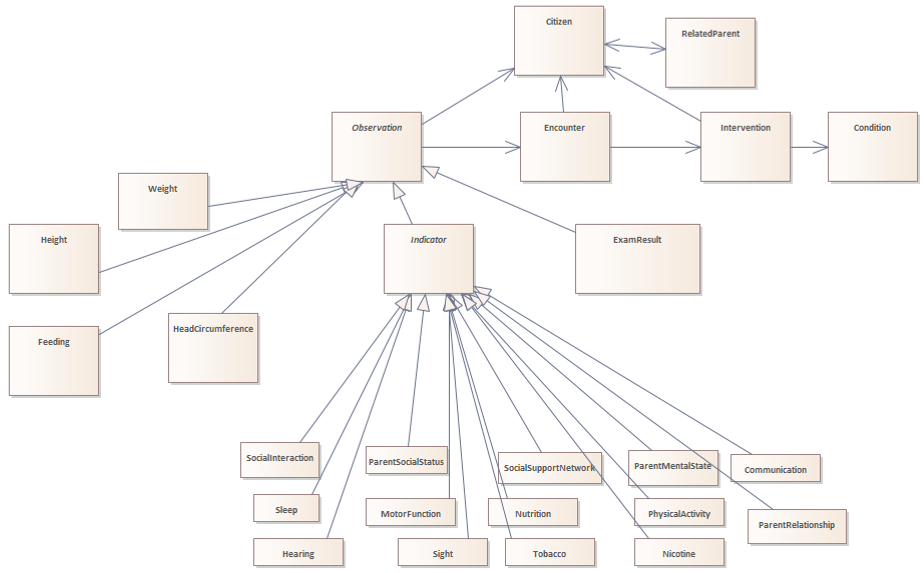
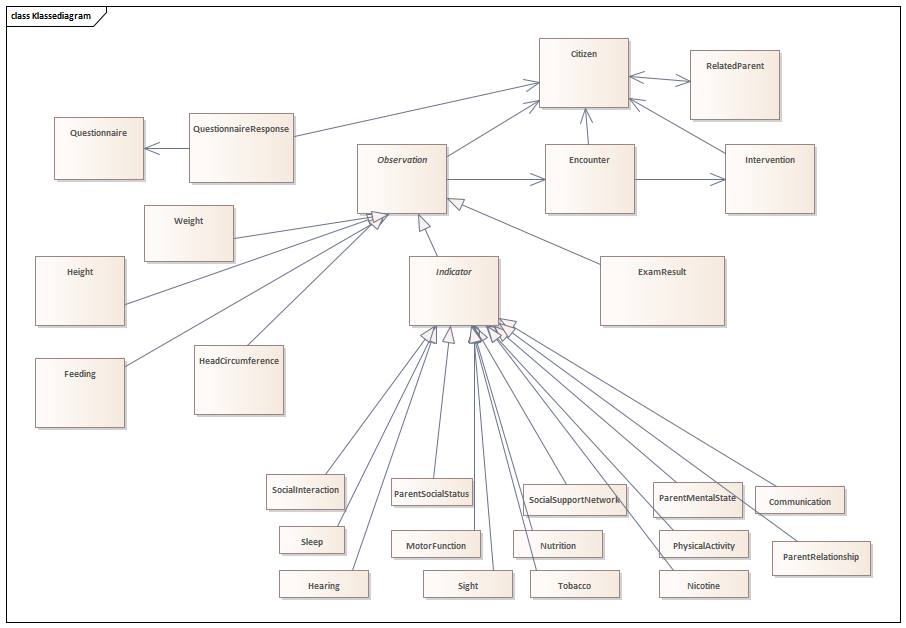
error correction

diff --git a/input/pagecontent/index.md b/input/pagecontent/index.md
@@ -10,31 +10,30 @@ The data is reported as a collection of instances. A report may contain instance
 
 <img alt="OverviewModel" src="./ReportStructure.png" style="float:none; display:block; margin-left:auto; margin-right:auto;" />
 
-In addition to being structured as a report, relationships exist between the models. These are illustrated in the figure below. Note that the ressource Indicator is abstract. Relevant models inherit from dk-core i.e. Citizen, Observation, BasicObservation and Condition.
+In addition to being structured as a report, relationships exist between the models. These are illustrated in the figure below. Note that the ressource Indicator is abstract. Relevant models inherit from dk-core i.e. Citizen, Observation, BasicObservation and Condition. QuestionnaireResponses are repported, not Questionnaires. The latter represents shared knowledge between sender and reciever.
 
 <img alt="ClassDiagram" src="./ClassDiagram.png" style="float:none; display:block; margin-left:auto; margin-right:auto;" />
 
 ## Special constraints, and resulting reporting practises
-Whereas the report may seem unconstrained, each profile define constraints on attributes, datatypes and cardinalities. In addition, extra constraints are implemented to accomodate the rules of reporting data to The National Child Health Register, see [guidance](https://sundhedsdatastyrelsen.dk/da/rammer-og-retningslinjer/indberetning_sei/vejledninger_indberetning/bornedatabasen) and Fælleskommunal standard for forebyggende sundhedsydelser til børn og unge (FBU). The extra constraints is defines to ensure that the relevant mandatory observations are reported as part of reporting on certain standard encounters. Note that the constraints only apply, when Enconter.Class is ambulatory "AMB" or Home visit "HH". A table is presented below (Danish names for standard-visits):
+Whereas the report may seem unconstrained, each profile define constraints on attributes, datatypes and cardinalities. In addition, extra constraints are implemented to accomodate the rules of reporting data to The National Child Health Register, see [guidance](https://sundhedsdatastyrelsen.dk/da/rammer-og-retningslinjer/indberetning_sei/vejledninger_indberetning/bornedatabasen) and Fælleskommunal standard for forebyggende sundhedsydelser til børn og unge (FBU). The extra constraints is defines to ensure that the relevant mandatory observations are reported as part of reporting on certain standard encounters. Note that the constraints only apply, when the appropriate encounter-type is applied, and when Enconter.Class is ambulatory "AMB" or Home visit "HH". A table is presented below (Danish names for standard-visits):
 
 {:class="grid"}
 |Standard visit| Mandatory Observations in Report|
 | ------------- |-------------|
 |Graviditetsbesøg |IndicatorParentMentalState, IndicatorSocialSupportNetwork, IndicatorParentSocialStatus|
-|Barselsbesøg |ParentRelationship, Weight, Feeding, |
-|Etableringsbesøg |IndicatorSocialSupportNetwork, IndicatorParentSocialStatus, ParentRelationship, Weight, Height, HeadCircumference, Tobacco, Feeding|
-|Andet besøg i barnets første levemåned|Tidspunkt for observationen.|
-|Besøg ved det ca. 2 måneder gamle barn |Klasse der udtrykker en overordnet katagori for hvad der observeres|
-|Besøg ved det 4-6 måneder gamle barn|Den borger, for hvem der er foretaget en observation.|
-|Besøg ved det 8-11 måneder gamle barn|Den kontakt, hvor observationen er foretaget.
-|Indskolingsundersøgelse |Klasse der udtrykker, hvor i sin proces, observationen er.
-|Undersøgelse i mellemtrin, med måling |Klasse, der udtrykker hvorfor data mangler|
-|Udskolingsundersøgelse Klasse, der udtrykker hvorfor data mangler|
+|Barselsbesøg |ParentRelationship, Weight, Feeding|
+|Etableringsbesøg |IndicatorSocialSupportNetwork, IndicatorParentSocialStatus, IndicatorParentRelationship, Weight, Height, HeadCircumference, IndicatorTobacco, Feeding|
+|Andet besøg i barnets første levemåned|IndicatorParentRelationship, Weight, Height, HeadCircumference, Feeding|
+|Besøg ved det ca. 2 måneder gamle barn |IndicatorParentMentalState, IndicatorSocialInteraction, IndicatorParentRelationship, Weight, Height, HeadCircumference, Feeding, IndicatorCommunication, IndicatorSleep, IndicatorMotorFunction|
+|Besøg ved det 4-6 måneder gamle barn|IndicatorSocialInteraction, IndicatorParentRelationship, Weight, Height, HeadCircumference, Feeding, IndicatorCommunication, IndicatorSleep, IndicatorMotorFunction|
+|Besøg ved det 8-11 måneder gamle barn|IndicatorSocialInteraction, IndicatorParentRelationship, Weight, Height, HeadCircumference, Feeding, IndicatorCommunication, IndicatorSleep, IndicatorMotorFunction|
+|Indskolingsundersøgelse |IndicatorSocialInteraction, Weight, Height, IndicatorNutrition, IndicatorCommunication, IndicatorSleep, IndicatorMotorFunction, IndicatorPhysicalActivity, IndicatorHearing, IndicatorSight|
+|Undersøgelse i mellemtrin, med måling |Weight, Height, IndicatorSight|
+|Udskolingsundersøgelse| IndicatorSocialInteraction, Weight, Height, IndicatorNutrition, IndicatorNicotine, IndicatorCommunication, IndicatorSleep, IndicatorPhysicalActivity, IndicatorHearing, IndicatorSight.|
 
+The applied rules mean that an observation without a value must be reported if one of the menitioned encounters are completed without the data being obtained, and an appropriate dataAbsentReason must be given. See more in the descriptions below and in the [Enconter-profile](StructureDefinition-klgateway-children-encounter.html)
 
-The applied rules mean that an observation without a value must be reported if one of the menitioned encounters are completed without the data being obtained, and an appropriate dataAbsentReason must be given. In addition, the correct encounter-type must be applied, for the rules to take effect correctly. See more in the descriptions below and in the [Enconter-profile](StructureDefinition-klgateway-children-encounter.html)
-
-Note that constraint also might pose a challenge for reporting, in case the documentation is finished in the days following a visit. For reports missing mandatory observations, it is recommended to try to send the record on the following two days (to see if documentation is finished). If the data is not documented by the secon day, send the observations imdiately without a value and add a dataAbsentReason. 
+Note that constraint might also pose a challenge for reporting, in case the documentation is finished in the days following a visit. For reports missing mandatory observations, it is recommended to try to send the record on the following two days (to see if documentation is finished). If the data is not documented by the second day, send the observations immediately without a value and add a dataAbsentReason.
 
 ## Citizen
 Information about the citizens that are the subjects of the report. This resource is used to get a reference to the child. However, sometimes a report holds data about the child's parents. To ensure that this data goes into the parent's record, the data should be related to the parent represented as a citizen. Citizen and relatedPerson resources for the parents should only be included when and if, they are relevant for the child's report.
@@ -43,29 +42,33 @@ Information about the citizens that are the subjects of the report. This resourc
 * civil registration number (CPR-nr)
 * identification of the municipality holding and reporting the data
 * a reference to ParentRelation that holds additional information about the citizen's children.
+* a FHIR status attribute used to report errors.
 
 ##### Validation
 * One and only one civil registration number exists, and is a syntactically valid CPR-nr
 * One and only one managing organization exitis, and is a syntactically valid SOR code (only code length is currently validated in the profile, but the authorization validates the actual SOR code)
 * One reference to ParentRelation may exist
+* One FHIR status may exist, and should be drawn form the standard ValueSet.
 
 ## ParentRelation
-Information about the relationship between a child and its parents. Citizen and relatedPerson resources for the parents should only be included when and if, they are relevant for the child's report.
+Information about the relationship between a child and its parents. Citizen and RelatedPerson resources for the parents should only be included when and if, they are relevant for the child's report.
 
 ##### Attributes
 * a reference to the Citizen instance that holds the child's information
 * a relationship type that states that this is a 'parent'-relationship.
+* a FHIR status attribute used to report errors.
+* One FHIR status may exist, and should be drawn form the standard ValueSet.
 
 ##### Validation
 * one and only one reference to the Citizen exists
 * one and only one relationship type exists, and the value is fixed to 'PRN' for parent.
 
 ## Encounter
-Information about when a child with or without family members meet the health nurse (sundhedsplejerske) in a Danish municipality context. 
+Information about when a child and/or parents meet the health nurse (sundhedsplejerske) in a Danish municipality context. 
 
 ##### Attributes
 * Type of encounter. The attribute describe which health nurse visit/enconter is deliverd using a code.
-* Encounter class. The attriute holds a code which describe the place of delivery e.g. home visit or ambulatory.
+* Encounter class. The attriute holds a code which describe the place of delivery e.g. home visit, ambulatory or virtual.
 * The encounter start-time
 * The encounter end-time
 * A reference to the Citizen instance that holds the child's information
@@ -80,11 +83,11 @@ Information about when a child with or without family members meet the health nu
 * One and only one FHIR status exists, and should be drawn from the standard FHIR-ValueSet
 
 ## Indicator
-A simple form of observation where a whole area of concern is evaluated.
+A simple form of observation where a whole area of concern is evaluated. The value is always a code. Indicator is abstract. The following describes how the specializations of Indicator is validated.
 
 ##### Attributes
-* Code that describe the kind of indicator
-* Value that describes whether a concern is present or not (bemærkning eller ingen bemærkninger)
+* Code that describe the kind of indicator.
+* Value that describes whether everything is normal, a potential problem exist, or a problem is present. Note that each of the specializations of Indicator, controls the valid values. 
 * A reference to the Citizen instance that holds either the parents or the child's information
 * A reference to the Encounter in which the indicator have been evaluated
 * The time of the evaluation
@@ -92,15 +95,34 @@ A simple form of observation where a whole area of concern is evaluated.
 * A FHIR status attribute
 
 ##### Validation
-* One and only one code exists to describe the kind of indicator. It should be drawn from a specific ValueSet, no other codes may be reported.
-* One value may exist. It should be drawn from a specific ValueSet, no other codes may be reported.
+* One and only one code exists to describe the kind of indicator. It is a fixed code for each of the specializations.
+* One value which is alwasys a code may exist. For each specialization, it should be drawn from a specific ValueSet, no other codes may be reported.
 * One and only one reference to the Citizen exists
 * A reference to an Encounter may exist
 * The time of the evaluation is mandatory
 * DataAbsentReason is possible when the value is absent, and should be drawn from the standard FHIR ValueSet
 * One and only one FHIR status exists, and should be drawn from the standard FHIR-ValueSet
 
-## BodyWeight
+## ExamResult
+Optional detailed history and examination findings from the health nurse record. For each finding a new instance of this model is needed.
+
+##### Attributes
+* One codes that means that this is a history and/or examination observable
+* A value which is a code
+* An observation-time
+* A reference to the Citizen instance that holds the child's information
+* A reference to the Encounter in which the observation occured
+* A FHIR status attributeFHIR-ValueSet
+
+##### Validation
+* The observation code should be present, and fixed to a specific SNOMED CT code
+* One value may exist. It should be drawn from a specific ValueSet, no other codes may be reported.
+* The observation-time is mandatory
+* One and only one reference to the Citizen exists
+* A reference to an Encounter may exist
+* One and only one FHIR status exists, and should be drawn from the standard FHIR-ValueSet
+
+## Weight
 A child's weight
 
 ##### Attributes
@@ -116,14 +138,14 @@ A child's weight
 ##### Validation
 * The category should be present, and fixed to a specific code
 * The two weight codes should be present, and fixed to a specific LOINC and SNOMED CT code respectively
-* The value should be given as a decimal point in grams, and the UCUM-unit is applied
+* The value should be given as a decimal point in grams or kilograms, and the UCUM-unit should be applied
 * One dataAbsentReason is mandatory if the value is empty
 * The time is mandatory
 * One and only one reference to the Citizen exists
 * A reference to an Encounter may exist
 * One and only one FHIR status exists, and should be drawn from the standard FHIR-ValueSet
 
-## BodyHeight
+## Height
 A child's length/height 
 
 ##### Attributes
@@ -139,7 +161,7 @@ A child's length/height
 ##### Validation
 * The category should be present, and fixed to a specific code
 * The two weight codes should be present. One is a fixed LOINC code. The other is either a SNOMED CT length or a SNOMED CT height code.
-* The value should be given as an integer in cm, and the UCUM-unit is applied
+* The value should be given as an integer in cm, and the UCUM-unit should be applied
 * One dataAbsentReason is mandatory if the value is empty
 * The time is mandatory
 * One and only one reference to the Citizen exists
@@ -169,14 +191,14 @@ The child's head circumference
 * A reference to an Encounter may exist
 * One and only one FHIR status exists, and should be drawn from the standard FHIR-ValueSet
 
-## FeedingObservation
+## Feeding
 Information about how small children are fed. It is used for observations of a childs breastfeeding.
 
 ##### Attributes
 * One codes that describes that this is a feeding observation
 * A value that describes what feeding method the observation is about
 * A dataAbsentReason, which makes it possible to describe why data is absent
-* An observation period in which the feeding method is used.
+* An observation period in which the feeding method is used, or an observation time.
 * A reference to the Citizen instance that holds the child's information
 * A reference to the Encounter in which the observation occured
 * A FHIR status attributeFHIR-ValueSet
@@ -185,53 +207,49 @@ Information about how small children are fed. It is used for observations of a c
 * The observation code should be present, and fixed to a specific SNOMED CT code
 * One value may exist. It should be drawn from a specific ValueSet, no other codes may be reported.
 * One dataAbsentReason is possible if the value is empty
-* The period start and end is mandatory, unless you give a date for when breastfeeding was stopped, then it is only one date.
+* The period start, or observation time is mandatory. periode-end is optional
 * One and only one reference to the Citizen exists
 * A reference to an Encounter may exist
 * One and only one FHIR status exists, and should be drawn from the standard FHIR-ValueSet
 
-## TobaccoObservation
-Information about small childrens' exposue to tobacco, and teenagers' tocacco use.
+## Intervention
+Interventions that are carried out by health nurses in childrens health promotion and disease prevention. Only need-based interventions are reported. The standard program that all children in Denmark recieves is not reported as interventions.
 
 ##### Attributes
-* One codes that describes that this is a tobacco observation
-* A value that describes the actual exposure or use using a code.
-* A dataAbsentReason, which makes it possible to describe why data is absent
-* An observation-time
+* A code that decribes which intervention it is
+* A start-time
+* An end-time
 * A reference to the Citizen instance that holds the child's information
-* A reference to the Encounter in which the observation occured
-* A FHIR status attributeFHIR-ValueSet
+* A reasonCode that describe the condition which is the reason for the intervention
+* Three FHIR status attributes
+
 
 ##### Validation
-* The observation code should be present, and fixed to a specific SNOMED CT code
-* One value may exist. It should be drawn from a specific ValueSet, no other codes may be reported.
-* One dataAbsentReason is possible if the value is empty
-* The observation-time is mandatory
-* One and only one reference to the Citizen exists
-* A reference to an Encounter may exist
-* One and only one FHIR status exists, and should be drawn from the standard FHIR-ValueSet
+* One and only one code is mandatory and should be drawn from the specified ValueSet
+* One and only one start-time is mandatory
+* Only one end-time may be given
+* One and only one reference to Citizen is mandatory
+* The reasonCode is optional. If present it should be drawn from the specified ValueSet. More than one code is allowed.
+* The FHIR status attributes are mandatory, and should be drawn from the standard FHIR-ValueSet.
 
-## MentalState
-Information about how children in school self-report that they thrive.
+## QuestionnaireResponse
+Response to a Questionnaire. Questionnaires may concern child or parents. The questionnaire may be filled out by the health nurse or the citizen.
 
 ##### Attributes
-* One codes that describes that this is an observation about how the child thrives
-* A value which is a code that describes how the child rated how happy they are in general or at school
-* A dataAbsentReason, which makes it possible to describe why data is absent
-* An observation-time
-* A reference to the Citizen instance that holds the child's information
-* A reference to the Encounter in which the observation occured
-* A FHIR status attributeFHIR-ValueSet
+* An adress pointing to the Questionnaire being answered
+* A reference to the Citizen instance that holds the child's or a parent's information
+* A reference to the Encounter in which the Questionnaire is answered
+* A questionnaire completion time
+* A number of answers to the questions in the Questionnaire 
+* A FHIR status attribute
 
 ##### Validation
-* The observation code should be present, and fixed to a specific SNOMED CT code
-* One value may exist. It should be drawn from a specific ValueSet, no other codes may be reported.
-* One dataAbsentReason is possible if the value is empty
-* The observation-time is mandatory
-* One and only one reference to the Citizen exists
-* A reference to an Encounter may exist
+* One and only one adress pointing to the Questionnaire exists
+* One and only one reference to citizen exists
+* One reference to encounter may exist
+* The questionnaire completion time is mandatory
+* At least one answer should be reported
 * One and only one FHIR status exists, and should be drawn from the standard FHIR-ValueSet
-
 
 ### Dependencies
 {% include dependency-table.xhtml %}
